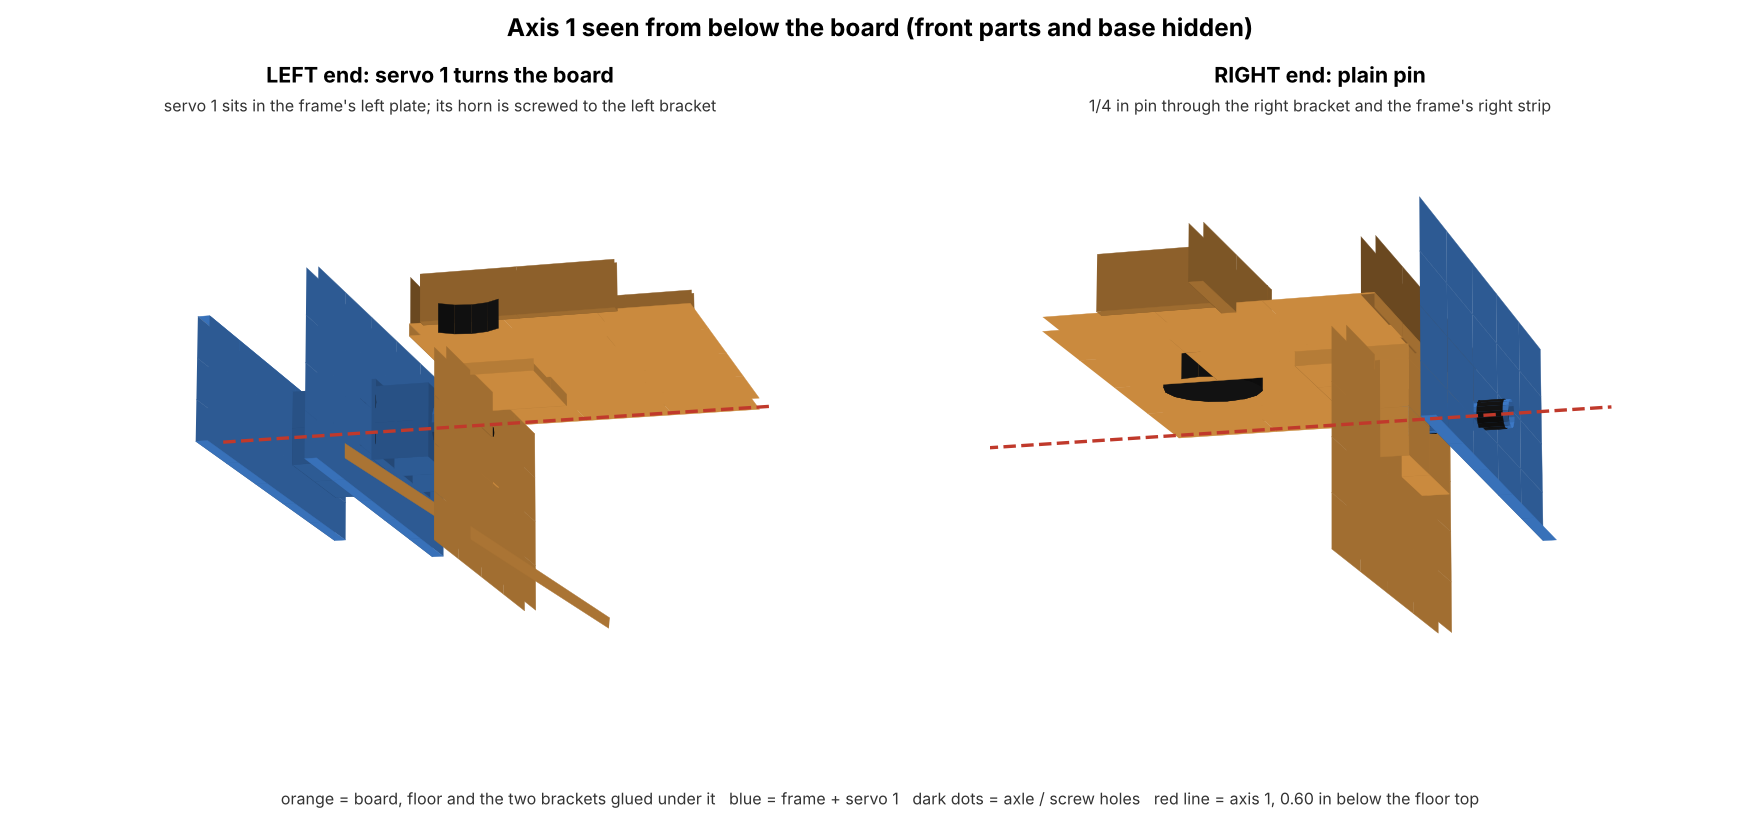
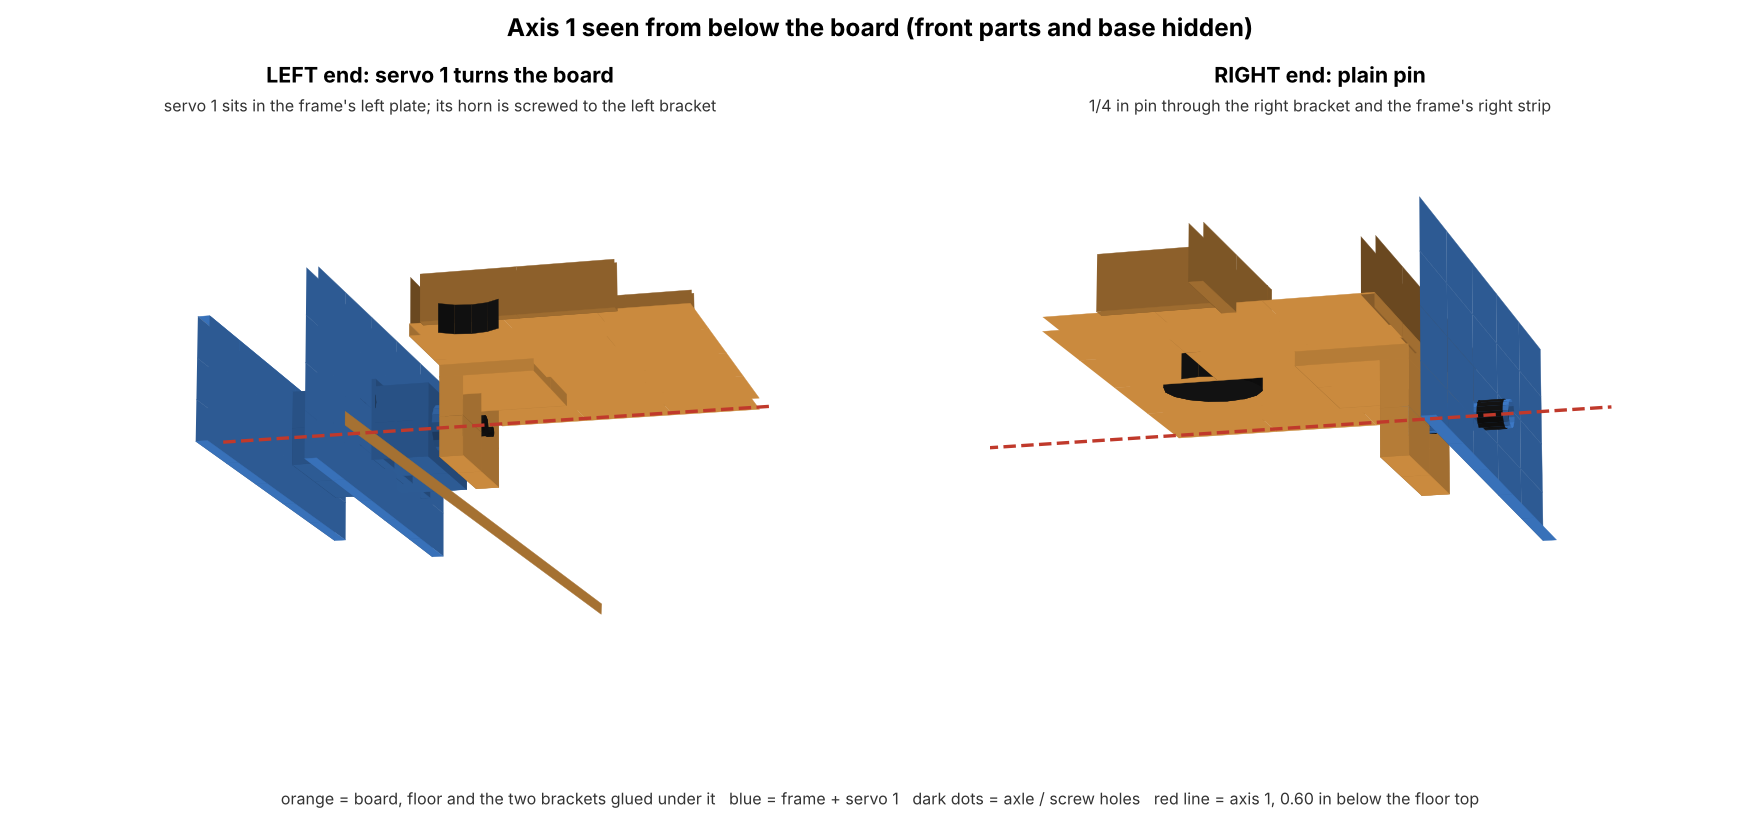
Tray: triangles only, gentler slope, built with SLICE instead of UCS
The UCS-based triangles came out in the wrong plane in AutoCAD. Each
triangle is now a box cut by three SLICE planes given in World points.
Walls and the cup are removed, the slope is halved (3.6 deg valley),
and the base is back at its old height.

Claude-Session: https://claude.ai/code/session_01KKucFUqdi832ws9qKueR3o

Changed region(s): [[0.1875, 0.4242, 0.3438, 0.7576], [0.75, 0.3939, 0.8438, 0.7576]]

diff --git a/Labyrinth/make_autocad_script.py b/Labyrinth/make_autocad_script.py
@@ -8,12 +8,13 @@ Board: floor with 8 holes and the trapdoor opening, the flap in the
 opening, the 3 in rim and 34 maze walls (2 in tall) standing on top of the
 floor, two brackets under the floor for axis 1, labels, the ball at START.
 
-Under the board, moving with it: a collection tray. Its floor is two
-flat 45-45-90 triangles that meet on the diagonal from the back-left
-corner down to the front-right corner (the corner in line with START's
-row and the 5 hole's column), so any ball that drops through a hole
-rolls into that corner and out a notch in the tray's front wall, into a
-cup on the base. A triangle is always flat, so stiff wood works.
+Under the board, moving with it: the collection tray floor - two flat
+triangles that meet on the diagonal from the back-left corner down to
+the front-right corner (the corner in line with START's row and the 5
+hole's column), so a ball that drops through any hole rolls into that
+corner. A triangle is always flat, so stiff wood works. The tray's
+walls are left out of this model on purpose. Each triangle is a box
+cut by three SLICE planes, so no UCS changes are needed.
 
 Outside, direct drive (servos on the stands, no pushrods). Both pivot axes
 sit AXIS_Z below the floor and cross under the board's centre:
@@ -62,13 +63,10 @@ LP_Z0 = -1.45                 # the frame's left plate goes a bit lower
 # brackets under the floor for axis 1 (left: servo horn, right: pin)
 BRK_W, BRK_T, BRK_Z0 = 1.5, 0.25, -1.1   # drop plate: width, thick, bottom
 BRK_FLANGE = 1.0              # flange glued under the floor
-BASE_Z0, BASE_Z1 = -6.0, -5.5   # low enough for the tray to swing
-# collection tray under the floor (moves with the board)
-TRAY_IN = BRK_T               # side walls start just inside the brackets
-TRAY_TOP = -2 * T             # wall tops, just under the bracket flanges
-TRAY_Z = {"FR": -3.4, "BL": -1.6, "BR": -2.1, "FL": -2.1}   # floor top
-EXIT_W, EXIT_H = 1.0, 0.9     # ball exit notch, front wall, right end
-CUP_H = 0.5                   # cup on the base under the exit
+BASE_Z0, BASE_Z1 = -5.0, -4.5
+# collection tray floor under the board (moves with the board)
+TRAY_IN = BRK_T               # starts just inside the axis-1 brackets
+TRAY_Z = {"FR": -2.4, "BL": -1.4, "BR": -1.7, "FL": -1.7}   # floor top
 GAME_TILT = 6.0               # tilt the clearance checks allow for
 POST_T = 0.5                  # posts: 1/2 in thick (4 layers of 1/8 ply)
 TAB_Z = -SERVO_TAB_FROM_TOP - SERVO_TAB_T   # tab underside, local z
@@ -114,22 +112,27 @@ class Model:
         self.solids.append((self.layer, "cyl", (p0, p1, r)))
 
     def tri_plate(self, a, b, c, t):
-        """Flat triangle a-b-c (top face) made t thick downwards: set a
-        UCS in the triangle's plane, draw it, extrude, back to World."""
+        """Flat triangle a-b-c (top face, any slope) made t thick: a box
+        around it, then SLICE by the side through a-c, the top plane and
+        the plane t below it. All points are World points."""
         import numpy as np
         a, b, c = (np.array(v, float) for v in (a, b, c))
-        u = (b - a) / np.linalg.norm(b - a)
-        w = c - a
-        v = w - (w @ u) * u
-        v /= np.linalg.norm(v)
-        if np.cross(u, v)[2] < 0:              # keep the top face up
-            return self.tri_plate(a, c, b, t)
-        nrm = np.cross(u, v)
-        bx, cx, cy = (b - a) @ u, w @ u, w @ v
-        self.lines += ["UCS", pt(*a), pt(*b), pt(*c),
-                       "PLINE", "0,0", "%s,0" % n(bx),
-                       "%s,%s" % (n(cx), n(cy)), "C",
-                       "EXTRUDE", "L", "", n(-t), "UCS", "W"]
+        lo = np.minimum(np.minimum(a, b), c) - [0, 0, t + 0.3]
+        hi = np.maximum(np.maximum(a, b), c) + [0, 0, 0.3]
+        nrm = np.cross(b - a, c - a)
+        nrm /= np.linalg.norm(nrm)
+        if nrm[2] < 0:
+            nrm = -nrm
+        mid = (a + b + c) / 3
+        dz = t / nrm[2]                        # same plate, measured down
+        down = np.array([0, 0, dz])
+        self.lines += ["BOX", pt(*lo), pt(*hi)]
+        for p1, p2, p3, keep in (
+                (a, c, c - [0, 0, 1], np.array([b[0], b[1], mid[2]])),
+                (a, b, c, mid - [0, 0, 1]),
+                (a - down, b - down, c - down, mid + [0, 0, 1])):
+            self.lines += ["SLICE", "L", "", "3", pt(*p1), pt(*p2),
+                           pt(*p3), pt(*keep)]
         self.solids.append((self.layer, "prism",
                             (tuple(a), tuple(b), tuple(c), t, tuple(nrm))))
 
@@ -215,8 +218,8 @@ def horn_hole_cuts(m, along, a0, a1, centre):
 # ------------------------------------------------------- collection tray
 def tray_corners():
     """Top of the tray floor at its 4 inside corners."""
-    x0, x1 = TRAY_IN + T, B - TRAY_IN - T
-    y0, y1 = T, B - T
+    x0, x1 = TRAY_IN, B - TRAY_IN
+    y0, y1 = 0.0, B
     return {"FL": (x0, y0, TRAY_Z["FL"]), "FR": (x1, y0, TRAY_Z["FR"]),
             "BR": (x1, y1, TRAY_Z["BR"]), "BL": (x0, y1, TRAY_Z["BL"])}
 
@@ -235,8 +238,8 @@ def tray_z(x, y):
 
 def tray_check(m, info):
     """Every hole drops into the tray, the floor drains to the front-right
-    corner, nothing hits the trapdoor, and the tray clears the cup and
-    base at GAME_TILT on both axes."""
+    corner, nothing hits the trapdoor, and the tray clears the base at
+    GAME_TILT on both axes."""
     import math
     import numpy as np
     tc = tray_corners()
@@ -273,11 +276,11 @@ def tray_check(m, info):
             xx, zz = q[:, 0] - C, q[:, 2] - AXIS_Z
             q[:, 2] = AXIS_Z - xx * math.sin(rb) + zz * math.cos(rb)
             low = min(low, q[:, 2].min())
-    gap = low - (BASE_Z1 + CUP_H)
-    assert gap > 0.1, "tray hits the cup at %.0f deg" % GAME_TILT
+    gap = low - BASE_Z1
+    assert gap > 0.1, "tray hits the base at %.0f deg" % GAME_TILT
     print("tray: catches all %d holes + trapdoor; floor drains to the "
           "front-right corner (valley %.1f deg, front edge %.1f deg); "
-          "clears the trapdoor by %.2f in and the cup by %.2f in at "
+          "clears the trapdoor by %.2f in and the base by %.2f in at "
           "%.0f deg tilt" % (len(info["holes"]), valley, edge, room, gap,
                              GAME_TILT))
 
@@ -350,14 +353,6 @@ def build():
                [lambda: m.cyl((C, pb0 - 0.05, AXIS_Z), (C, pb1 + 0.05, AXIS_Z),
                               PIN_HOLE_R)])
 
-    # ---- collection tray: front wall has the exit notch
-    tc = tray_corners()
-    zfr = TRAY_Z["FR"]
-    m.cut_part("TRAY-FRONT", 30,
-               lambda: m.box(TRAY_IN, 0, zfr - T, B - TRAY_IN, T, TRAY_TOP),
-               [lambda: m.box(tc["FR"][0] - EXIT_W, -0.05, zfr - 0.02,
-                              tc["FR"][0] + 0.01, T + 0.05, zfr + EXIT_H)])
-
     # ---- parts without holes
     m.lines += ["-LAYER", "T", "*", ""]
     m.use("FRAME-BAY", 150)                        # low servo bay, left
@@ -375,17 +370,10 @@ def build():
     for r in walls:
         x0, y0, x1, y1 = r["rect"]
         m.box(x0, y0, 0, x1, y1, r["height"])
-    m.use("TRAY-BACK", 30)
-    m.box(TRAY_IN, B - T, min(TRAY_Z["BL"], TRAY_Z["BR"]) - T,
-          B - TRAY_IN, B, TRAY_TOP)
-    m.use("TRAY-LEFT", 30)
-    m.box(TRAY_IN, T, min(TRAY_Z["FL"], TRAY_Z["BL"]) - T,
-          TRAY_IN + T, B - T, TRAY_TOP)
-    m.use("TRAY-RIGHT", 30)
-    m.box(B - TRAY_IN - T, T, TRAY_Z["FR"] - T, B - TRAY_IN, B - T, TRAY_TOP)
+    tc = tray_corners()
     m.use("TRAY-FLOOR", 31)                    # two flat triangles
     m.tri_plate(tc["FR"], tc["BR"], tc["BL"], T)
-    m.tri_plate(tc["FR"], tc["BL"], tc["FL"], T)
+    m.tri_plate(tc["FR"], tc["FL"], tc["BL"], T)
     m.use("TRAPDOOR-FLAP", 40)
     m.box(tx - th + ml.TRAP_GAP, ty - th + ml.TRAP_HINGE_GAP, -T,
           tx + th - ml.TRAP_GAP, ty + th - ml.TRAP_GAP, 0)
@@ -402,12 +390,6 @@ def build():
     bx1, by1 = fx1 + 1.0, pb1 + 0.5
     m.use("BASE", 251)
     m.box(bx0, by0, BASE_Z0, bx1, by1, BASE_Z1)
-    m.use("TRAY-CUP", 251)                     # catches balls from the exit
-    cx0, cx1 = tc["FR"][0] - EXIT_W - 0.6, tc["FR"][0] + 0.6
-    cy0, cy1 = -1.4, 0.8
-    for x0_, y0_, x1_, y1_ in ((cx0, cy0, cx1, cy0 + T), (cx0, cy1 - T, cx1, cy1),
-                               (cx0, cy0, cx0 + T, cy1), (cx1 - T, cy0, cx1, cy1)):
-        m.box(x0_, y0_, BASE_Z1, x1_, y1_, BASE_Z1 + CUP_H)
     m.use("CONTROLS", 250)                         # joystick box, front left
     m.box(0.6, by0 + 0.2, BASE_Z1, 3.6, by0 + 1.4, BASE_Z1 + 0.9)
     m.use("JOYSTICK", 7)
@@ -461,8 +443,7 @@ def check(m, info):
           % (fx1 - fx0, fy1 - fy0, *info["base"]))
 
 
-TRAY_LAYERS = ("TRAY-FRONT", "TRAY-BACK", "TRAY-LEFT", "TRAY-RIGHT",
-               "TRAY-FLOOR")
+TRAY_LAYERS = ("TRAY-FLOOR",)
 BOARD_LAYERS = ("FLOOR", "RIM-FRONT", "RIM-BACK", "RIM-LEFT", "RIM-RIGHT",
                 "WALLS", "BRACKET-LEFT", "BRACKET-RIGHT", "TRAPDOOR-FLAP",
                 "TRAPDOOR-SERVO", "BALL", "HORN-1") + TRAY_LAYERS

diff --git a/Labyrinth/make_tray_views.py b/Labyrinth/make_tray_views.py
@@ -31,17 +31,7 @@ def length(p, q):
 
 def cut_list():
     tc = cad.tray_corners()
-    zfr = cad.TRAY_Z["FR"]
-    deep = cad.TRAY_TOP - (zfr - T)
-    shallow = cad.TRAY_TOP - (min(cad.TRAY_Z["BL"], cad.TRAY_Z["BR"]) - T)
-    wide, long_ = B - 2 * cad.TRAY_IN, B - 2 * T
-    rows = [
-        ("front wall", "%.3f x %.3f, notch %.2f x %.2f at the right end"
-         % (wide, deep, cad.EXIT_W, cad.EXIT_H)),
-        ("right wall", "%.3f x %.3f" % (long_, deep)),
-        ("back wall", "%.3f x %.3f" % (wide, shallow)),
-        ("left wall", "%.3f x %.3f" % (long_, shallow)),
-    ]
+    rows = []
     for name, k in (("right triangle", "BR"), ("left triangle", "FL")):
         a, b, c = tc["FR"], tc[k], tc["BL"]
         rows.append((name, "sides %.3f (FR-%s), %.3f (%s-BL), %.3f "
@@ -95,10 +85,9 @@ def drain_map(ax):
         elif f == "S":
             ax.text(cx, cy, "START", ha="center", va="center", fontsize=8,
                     weight="bold", color="#2e7d32")
-    ax.add_patch(plt.Rectangle((x1 - cad.EXIT_W, -0.35), cad.EXIT_W, 0.45,
-                               color="#2e7d32"))
-    ax.text(x1 - cad.EXIT_W / 2, -0.75, "EXIT -> cup", ha="center",
-            fontsize=9, weight="bold", color="#2e7d32")
+    ax.annotate("balls collect here", (x1 - 0.2, y0 + 0.2), (x1 - 4.2, -0.8),
+                color="#2e7d32", weight="bold", fontsize=9,
+                arrowprops=dict(arrowstyle="->", color="#2e7d32", lw=1.5))
     for k, (dx, dy) in {"FL": (-0.2, -0.5), "FR": (0.2, 0.35),
                         "BR": (0.2, 0.3), "BL": (-0.2, 0.3)}.items():
         x, y, z = tc[k]
@@ -124,17 +113,17 @@ def main():
              "nearest you (frame, servos, base hidden)", ha="center", fontsize=11)
     drain_map(fig.add_axes([0.53, 0.2, 0.42, 0.7]))
     rows = cut_list()
-    fig.text(0.04, 0.165, "Cut list (inches) - walls glue to each other and "
-             "to the brackets; the triangles sit inside on the slope",
+    fig.text(0.04, 0.165, "Cut list (inches) - just the two floor triangles "
+             "(walls not in this version)",
              fontsize=11, weight="bold")
     for k, (name, size) in enumerate(rows):
-        fig.text(0.04 + 0.47 * (k // 3), 0.13 - 0.032 * (k % 3),
+        fig.text(0.04, 0.13 - 0.032 * k,
                  "%-15s %s" % (name, size), fontsize=10,
                  family="DejaVu Sans Mono")
     fig.text(0.04, 0.02, "Lowest point %.1f in under the floor top; the "
-             "tray swings with the board and clears the cup at %d deg. "
-             "Valley slope %.1f deg, so balls still roll with the board "
-             "tilted 5 deg the wrong way." % (
+             "tray swings with the board and clears the base at %d deg. "
+             "Valley slope %.1f deg - tilt the board toward the "
+             "front-right corner to empty it." % (
                  -cad.TRAY_Z["FR"], cad.GAME_TILT, math.degrees(math.atan(
                      (cad.TRAY_Z["BL"] - cad.TRAY_Z["FR"]) / math.dist(
                          cad.tray_corners()["BL"][:2],

diff --git a/Labyrinth/make_axis_views.py b/Labyrinth/make_axis_views.py
@@ -59,18 +59,17 @@ def parse(path):
                 last_servo = layer
             i += 3
             continue
-        if t == "UCS" and lines[i + 1] != "W":    # tray triangle
-            a, b, c = (np.array(P(lines[i + k])) for k in (1, 2, 3))
-            th = -float(lines[i + 12])
-            nrm = np.cross(b - a, c - a)
-            nrm /= np.linalg.norm(nrm)
-            if nrm[2] < 0:
-                nrm = -nrm
-            out.append(("board", layer, "prism", (a, b, c, th, nrm), False))
-            i += 15
-            continue
         if t in ("BOX", "CYLINDER", "SPHERE"):
-            if t == "BOX":
+            if t == "BOX" and lines[i + 3] == "SLICE":   # tray triangle:
+                top = [np.array(P(lines[i + 3 + 8 + k])) for k in (4, 5, 6)]
+                low = np.array(P(lines[i + 3 + 16 + 4]))  # box cut by 3 planes
+                nrm = np.cross(top[1] - top[0], top[2] - top[0])
+                nrm /= np.linalg.norm(nrm)
+                if nrm[2] < 0:
+                    nrm = -nrm
+                th = (top[0][2] - low[2]) * nrm[2]
+                data, i = ("prism", (*top, th, nrm)), i + 3 + 24
+            elif t == "BOX":
                 data, i = ("box", (P(lines[i + 1]), P(lines[i + 2]))), i + 3
             elif t == "CYLINDER":
                 data = ("cyl", (P(lines[i + 1]), P(lines[i + 4]),

diff --git a/Labyrinth/README.md b/Labyrinth/README.md
@@ -51,22 +51,22 @@ releases the ball at about 6°. Test that in cardboard first.
 ## Collection tray
 
 Every ball that drops through a hole (prize holes, loss holes, the
-trapdoor) lands in a tray hung under the floor. The tray moves with the
-board. Its floor is two flat triangles that meet on the diagonal from the
+trapdoor) lands on a tray floor hung under the board. It moves with the
+board. The floor is two flat triangles that meet on the diagonal from the
 back-left corner down to the **front-right corner** (the corner in line
-with START's row and the 5 hole's column), so the ball rolls to that
-corner and out a 1 in notch in the front wall into a cup on the base.
+with START's row and the 5 hole's column), so balls roll to that corner.
 A triangle is always flat, so it works in stiff wood as well as cardboard.
+The tray walls are left out of the model for now - just the triangles.
 
-- Floor heights (below the floor top): back-left 1.6 in, front-left and
-  back-right 2.1 in, front-right 3.4 in. The valley slopes 6.6 deg, so a
-  ball still rolls with the board tilted 5 deg the wrong way.
-- The side walls sit just inside the axis-1 brackets and glue to them;
-  wall tops stop 1/4 in under the floor so they clear the bracket flanges.
-- The base sits 1 in lower than before (top at -5.5 in) so the tray
-  clears the cup at 6 deg on both axes. The script checks this, the
-  trapdoor flap's swing, and that every hole is over the tray.
-- Cut list: run `python3 make_tray_views.py`, or see `Labyrinth_tray.png`.
+- Floor heights below the floor top: back-left 1.4 in, front-left and
+  back-right 1.7 in, front-right 2.4 in. Gentle: the valley slopes 3.6 deg,
+  so tilting the board toward the front-right corner empties it.
+- Each triangle is built in AutoCAD as a box cut by three `SLICE` planes,
+  so the script never changes the UCS.
+- The script checks that every hole is over the tray, the floor drains to
+  the corner, the trapdoor flap and its servo clear it, and the tray clears
+  the base at 6 deg on both axes.
+- Triangle sizes: run `python3 make_tray_views.py`, or see `Labyrinth_tray.png`.
 
 ![Collection tray](Labyrinth_tray.png)
 
